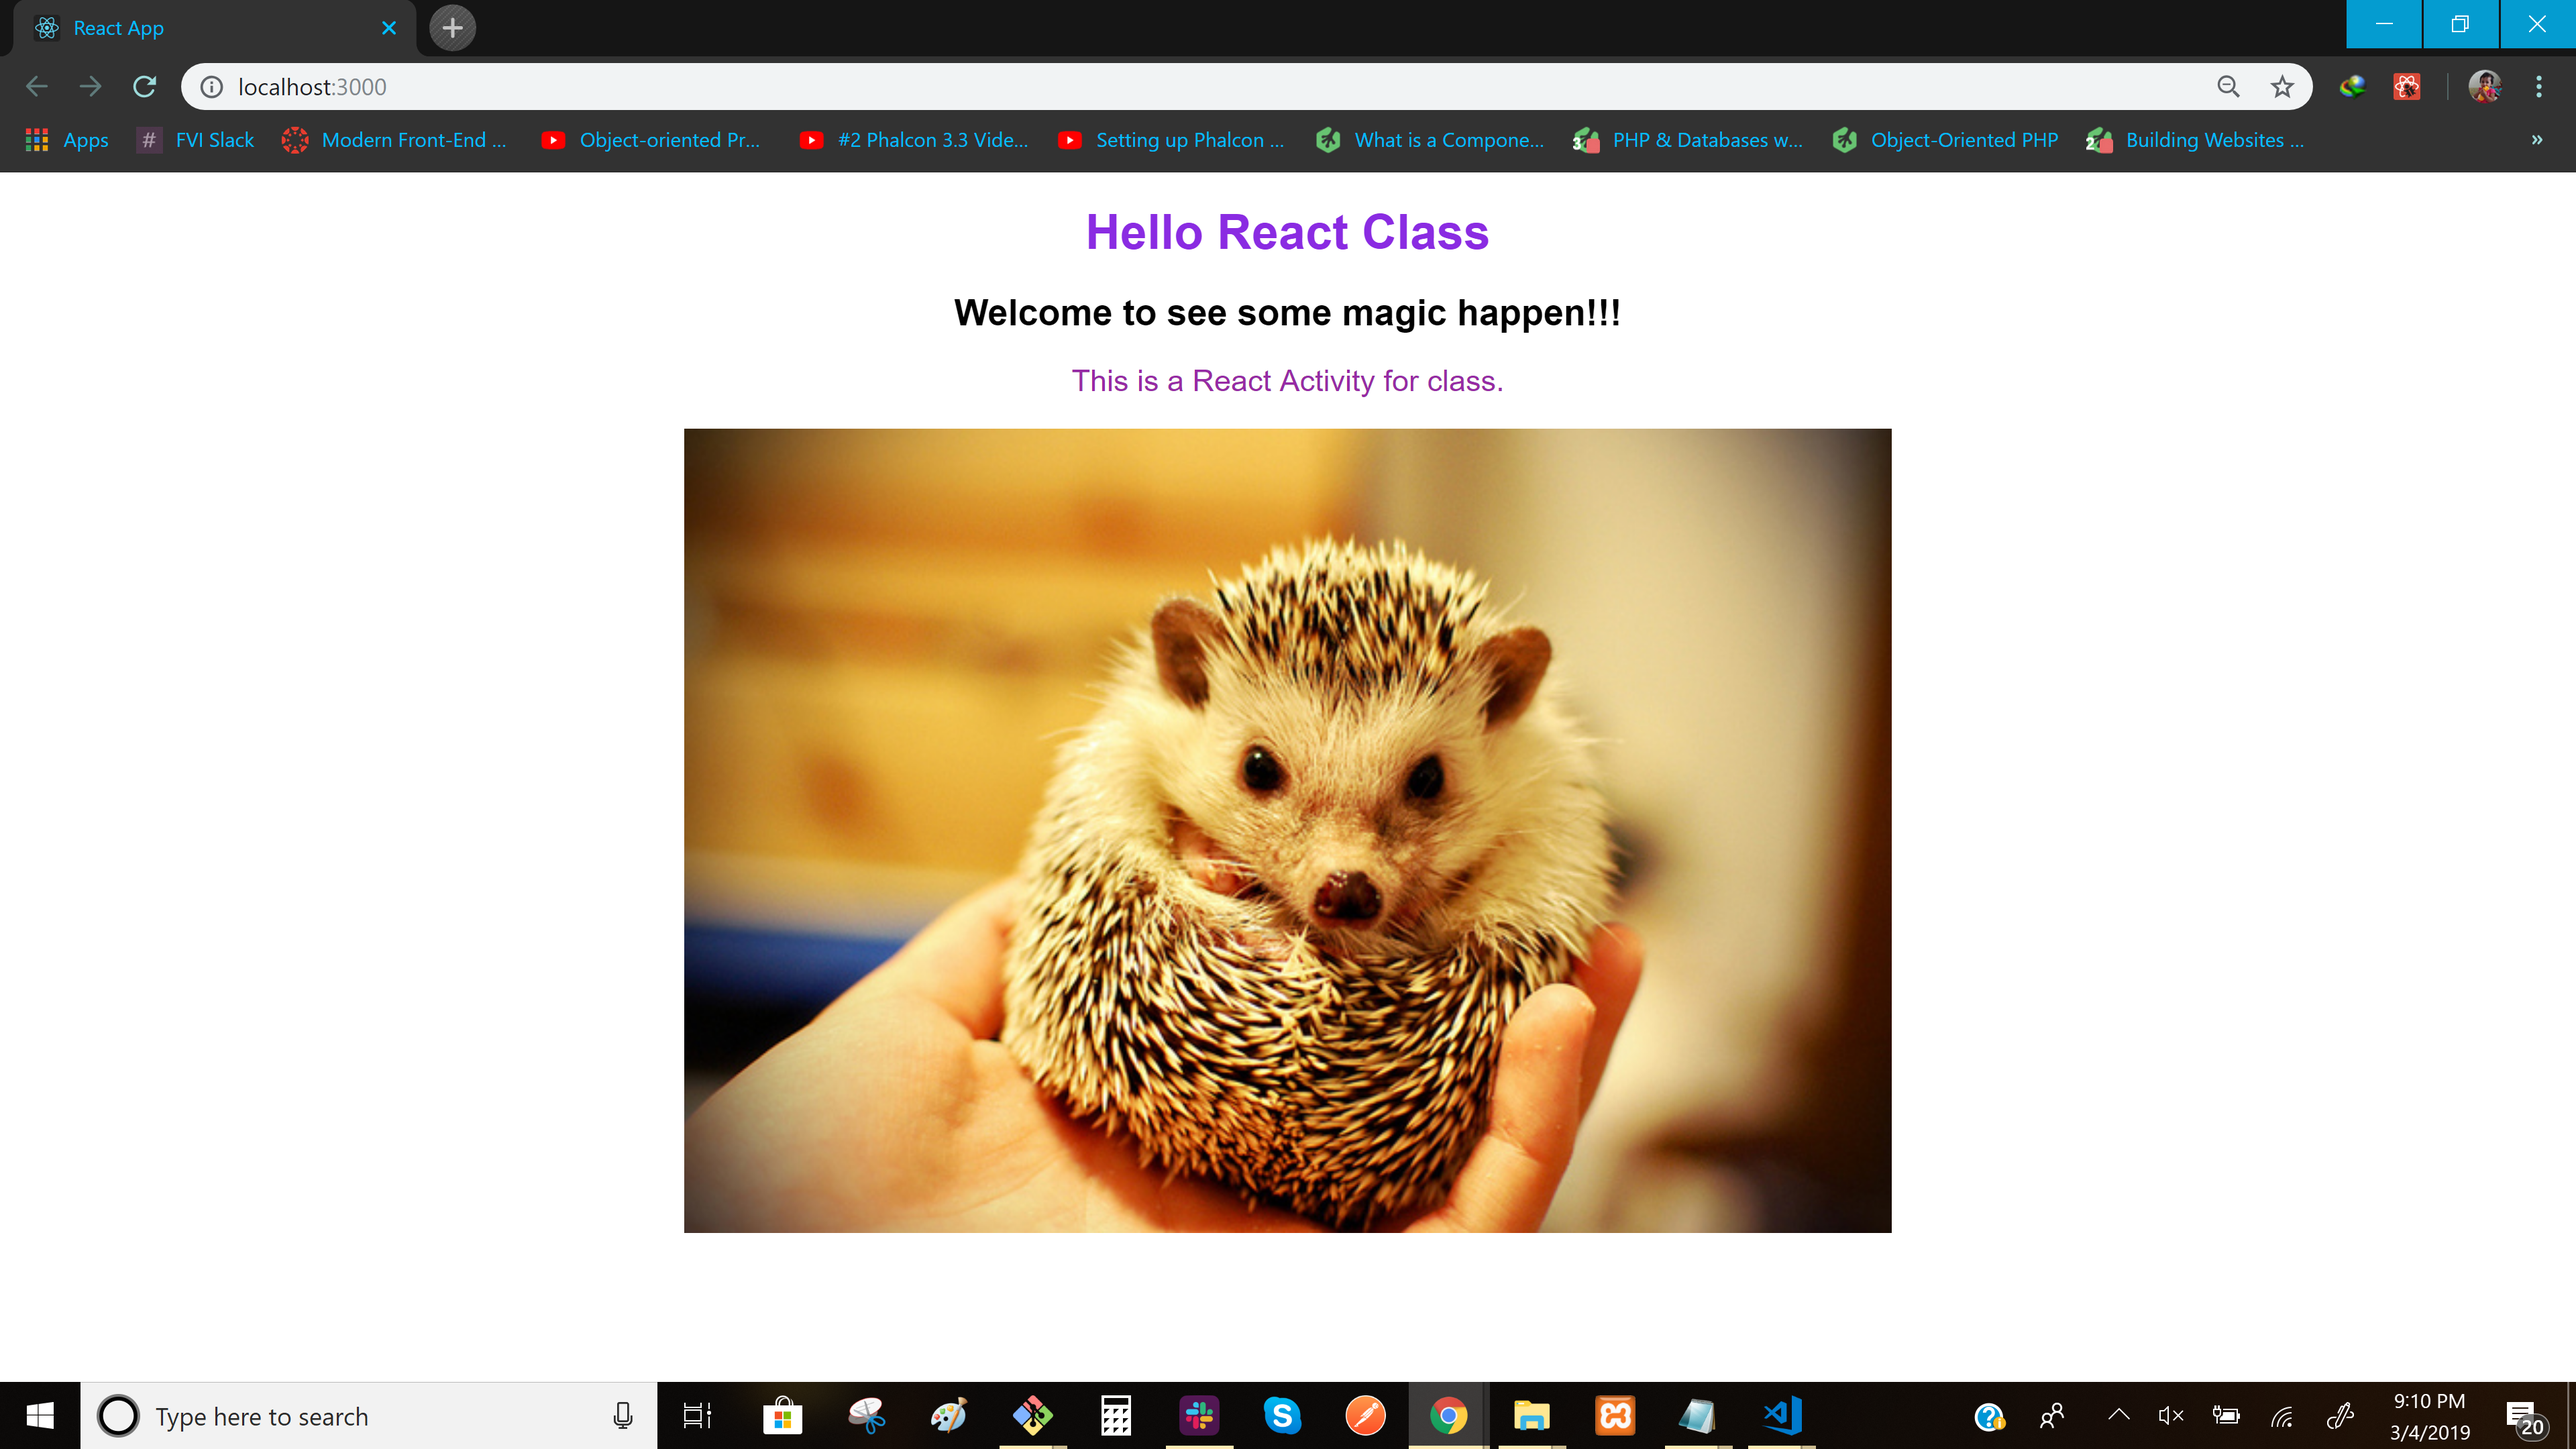
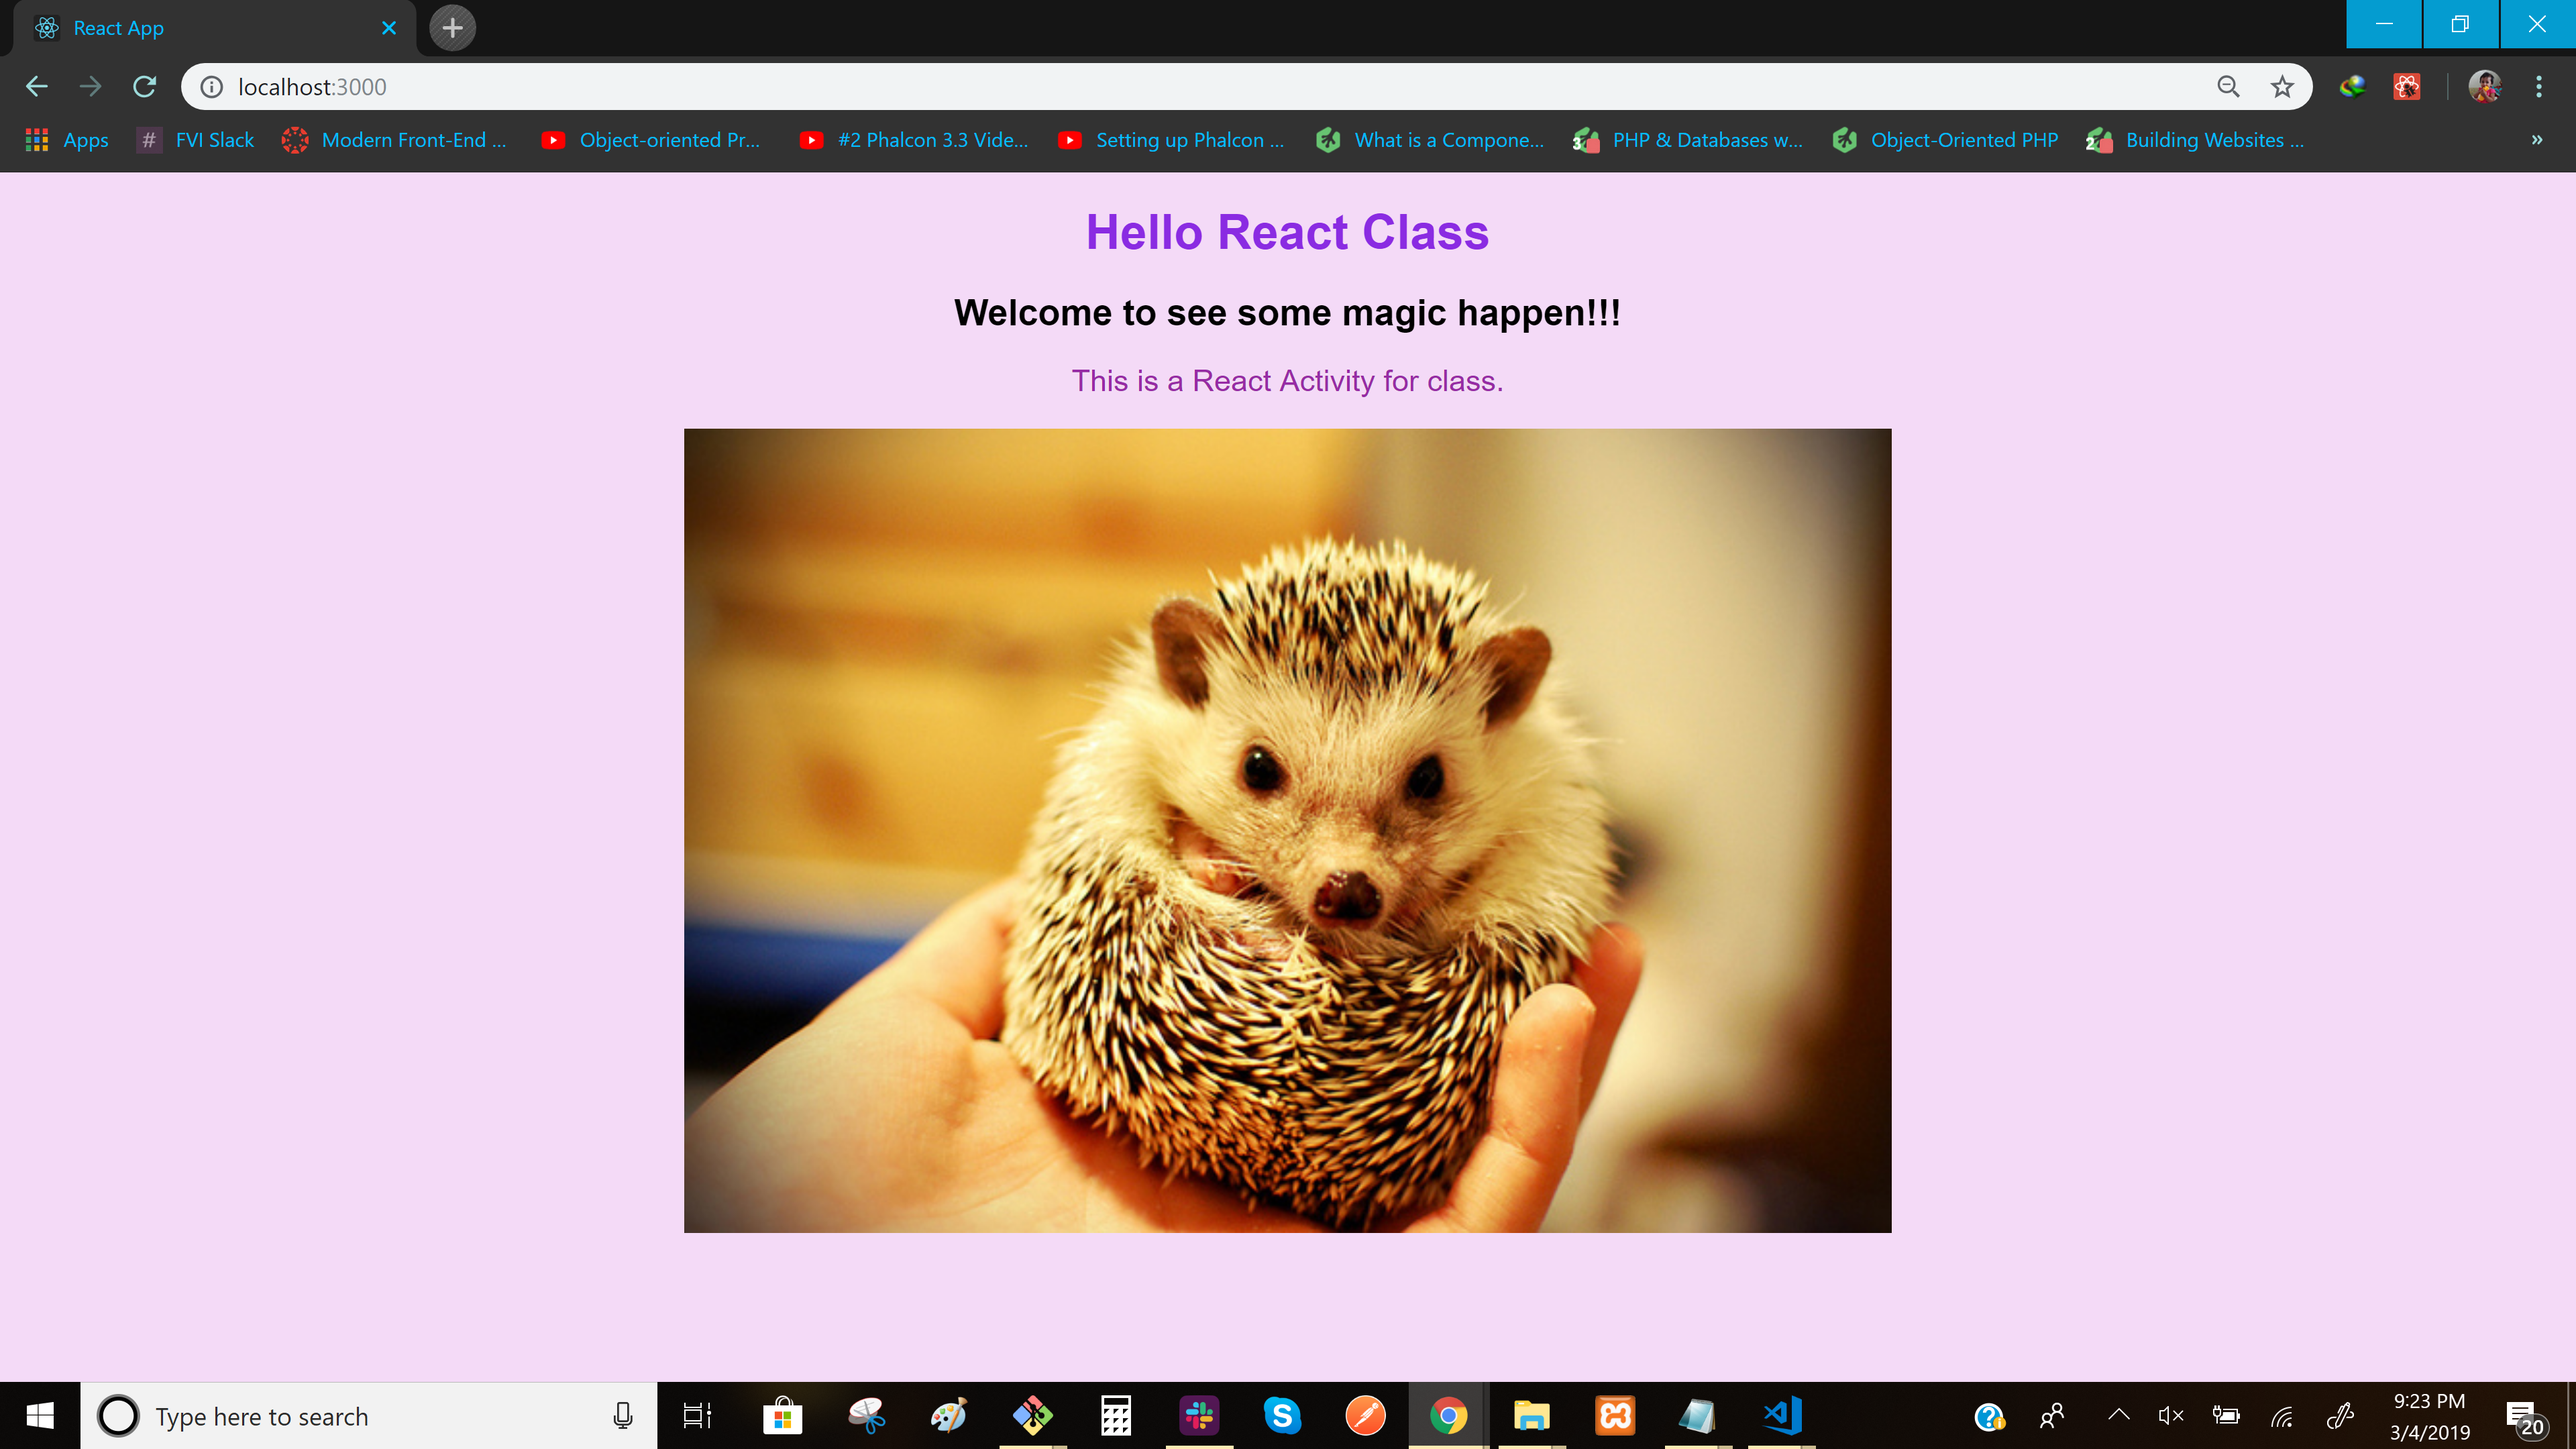
Updated

diff --git a/src/styles.css b/src/styles.css
@@ -1,3 +1,7 @@
+body {
+  background-color: #f4daf7;
+}
+
 .App {
   font-family: sans-serif;
   text-align: center;
